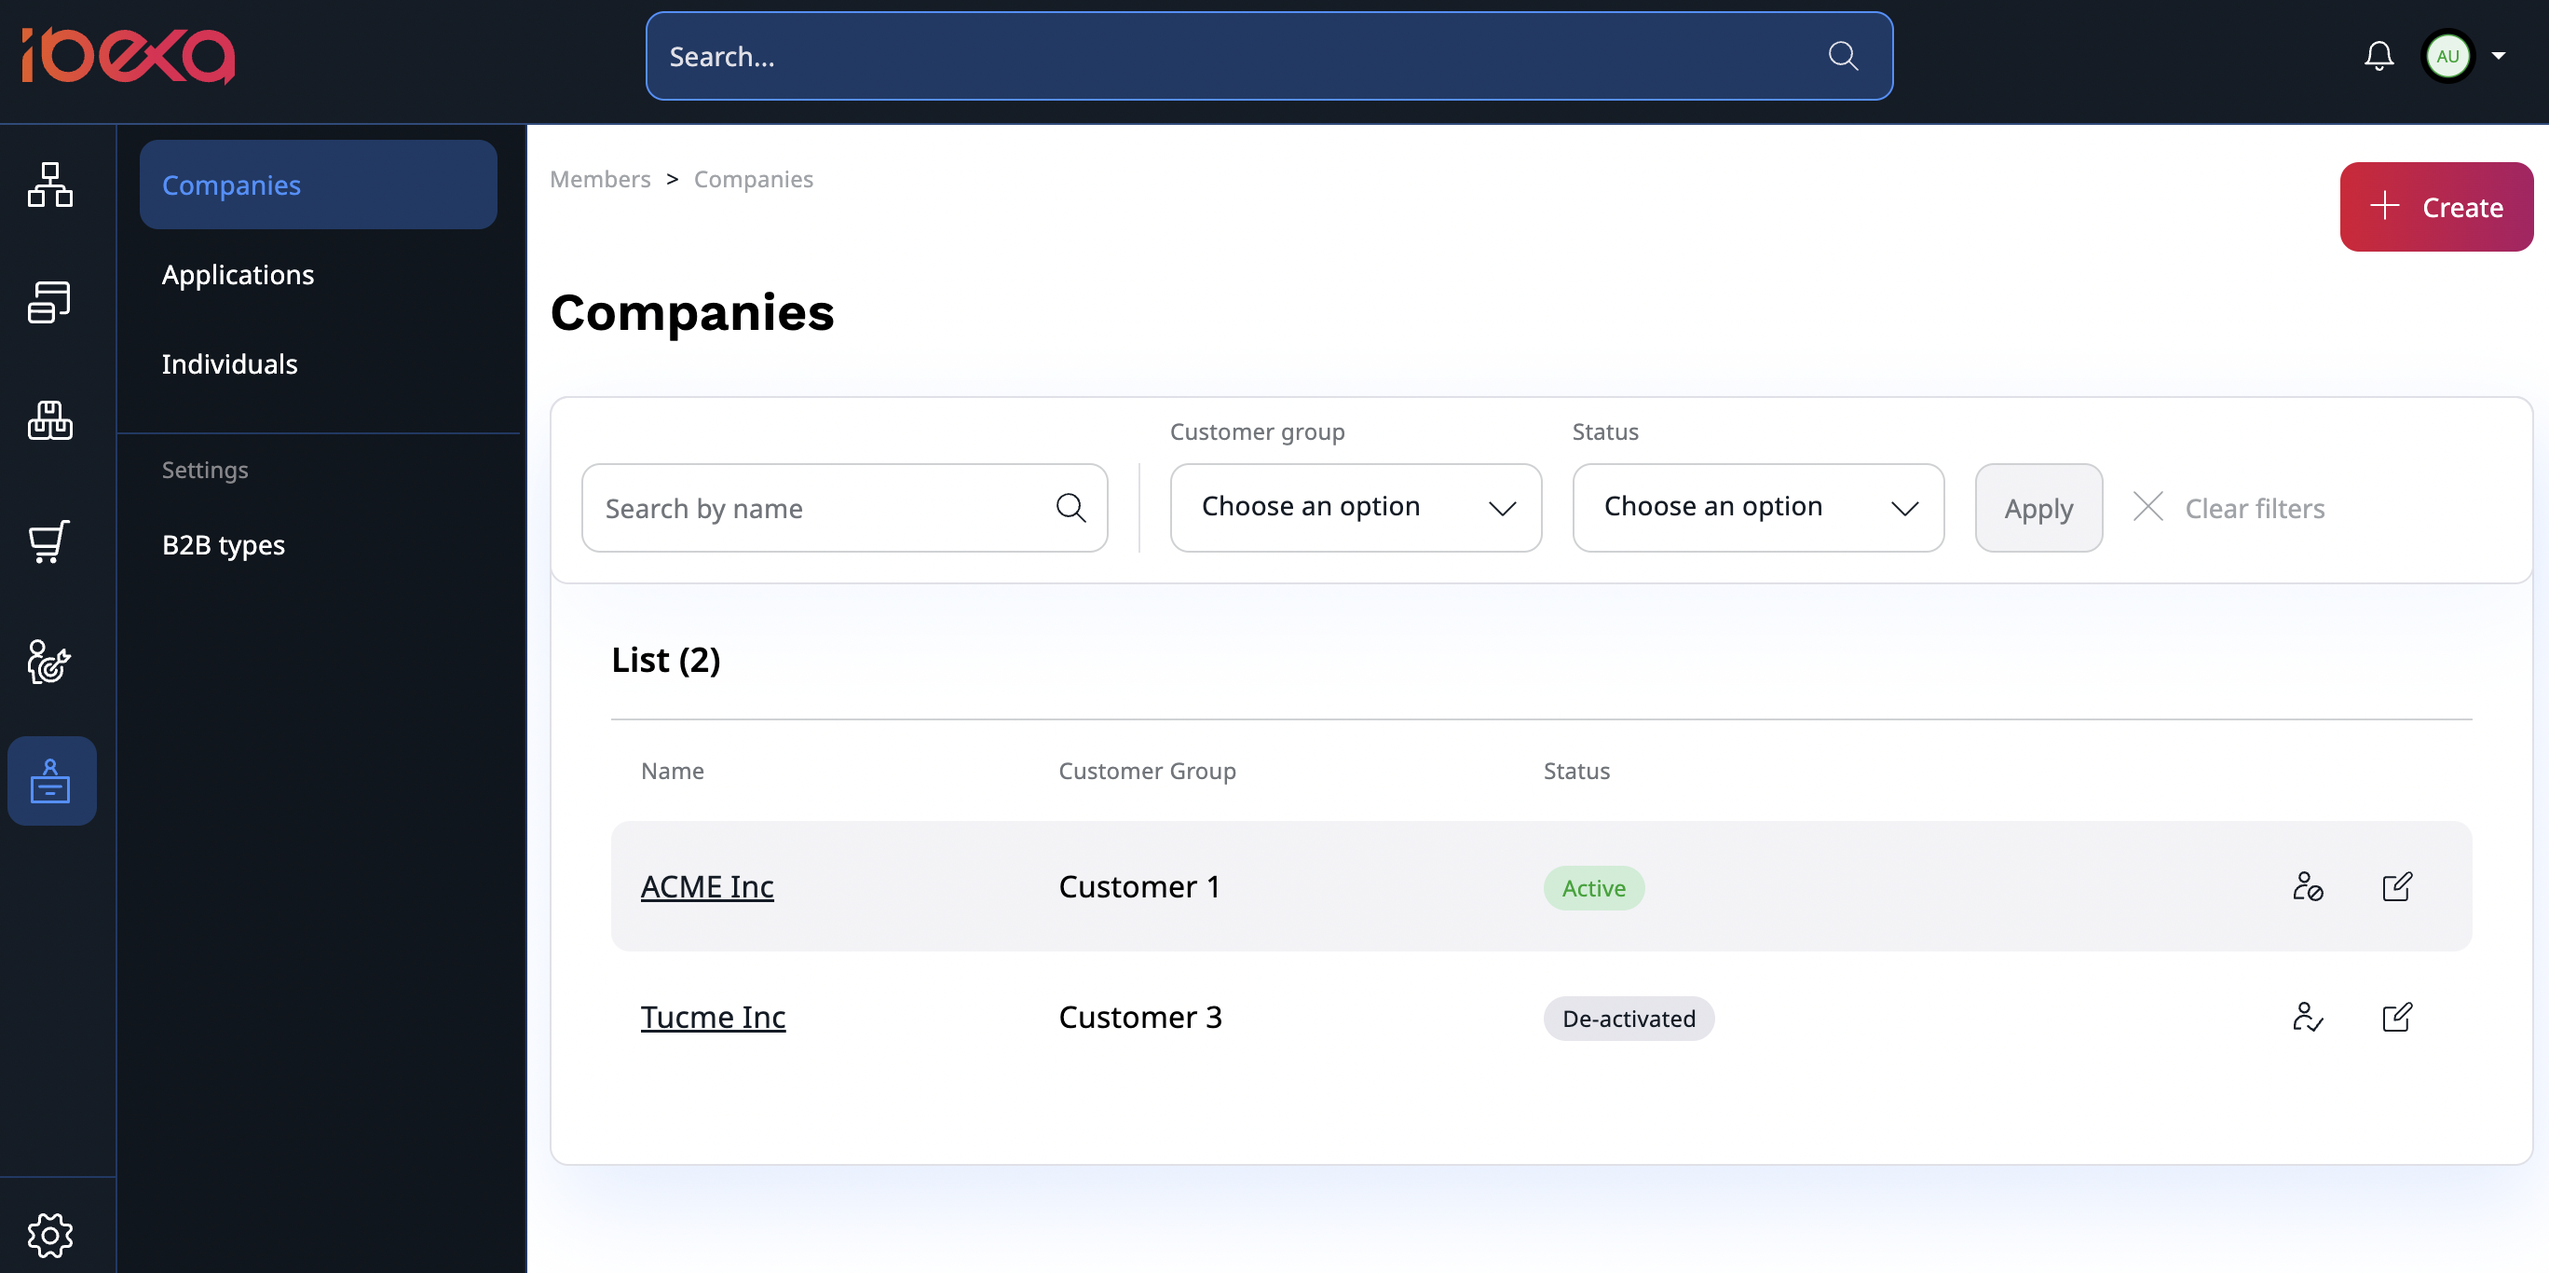
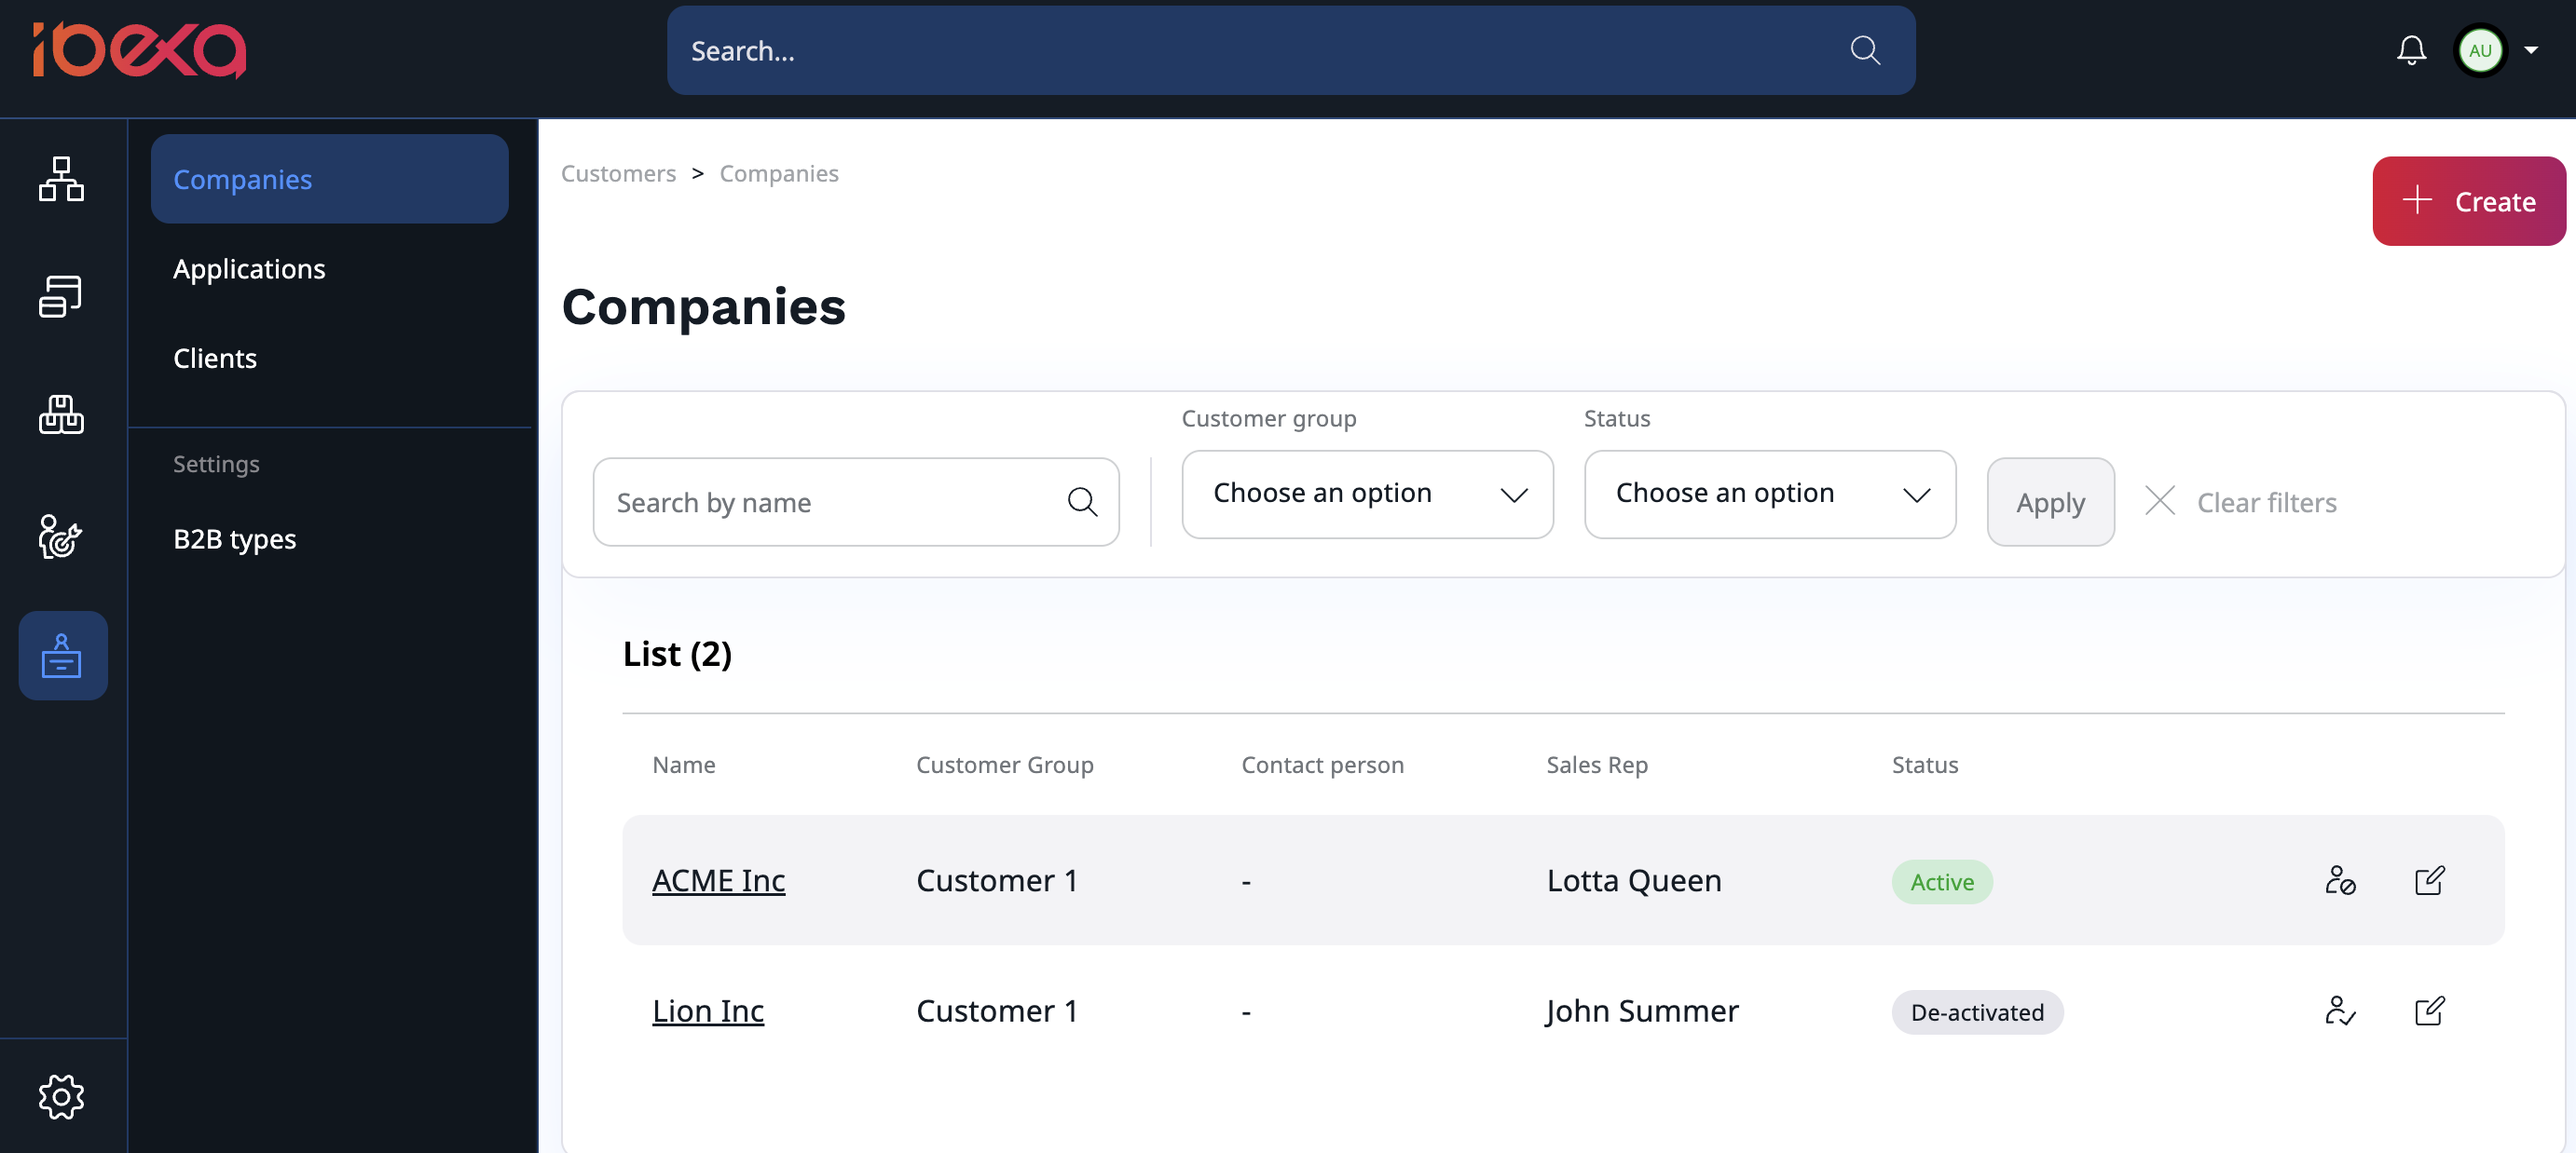
IBX-5132 Wrong breadcrumbs after menu labels update in Corporate Account (#186)

diff --git a/docs/shop_administration/company_self_registration.md b/docs/shop_administration/company_self_registration.md
@@ -22,14 +22,14 @@ They need to provide their basic information, contact information and billing ad
 ## Application approval
 
 The application then goes through an approval process in the Back Office.
-To see a list of pending applications, go to **Members** -> **Applications**.
+To see a list of pending applications, go to **Customers** -> **Applications**.
 There you can edit them or check their current status.
 
 ![List of applications](img/cp_applications_list.png)
 
 Each application can be either edited, approved, rejected or put on hold.
 Applications with status reject and on hold remain on the list for future reference.
-Accepted ones move to **Members** -> **Companies** section.
+Accepted ones move to **Customers** -> **Companies** section.
 
 ![Application](img/cp_application.png)
 
@@ -43,6 +43,6 @@ Follow the same procedure with a customer group, it can be set up in **Commerce*
 Finally, the invitation link is sent back to the applier to finish the registration process
 and give them access to the [Customer Portal](customer_portal.md).
 
-Application is moved to **Members** -> **Companies** section and the company is created with **Active** status.
+Application is moved to **Customers** -> **Companies** section and the company is created with **Active** status.
 From there, you can manage the company and resend an invitation link if needed.
 For more information on managing companies in the Back Office, see [Customer management documentation](manage_customers.md#manage-company). 

diff --git a/docs/shop_administration/manage_customers.md b/docs/shop_administration/manage_customers.md
@@ -10,7 +10,7 @@ customers and organizations' accounts in your system, including their shop activ
 
 ## Create new company
 
-To create a new company, go to **Members** -> **Companies** section.
+To create a new company, go to **Customers** -> **Companies** section.
 There you can view a list of companies you have access to,
 you can also edit them or create a new one by selecting **Create** button in the top right corner.
 
@@ -30,7 +30,7 @@ Optionally, you can add a website and other contact details.
 
 ## Manage company
 
-Companies can be managed from the Back Office in the **Members** -> **Companies** section.
+Companies can be managed from the Back Office in the **Customers** -> **Companies** section.
 Each company has its own profile where you can find:
 
 - summary with basic information and order history
@@ -64,7 +64,7 @@ You can also set up Policies for every user who has a business account by editin
 ## Invite members
 
 To invite other members to the organization,
-go to **Members** -> **Companies** -> Select your company -> **Invitations**.
+go to **Customers** -> **Companies** -> Select your company -> **Invitations**.
 
 ![Invite members from the Back Office](img/cp_invitations_back_office.png)
 

diff --git a/docs/shop_administration/customer_portal.md b/docs/shop_administration/customer_portal.md
@@ -12,6 +12,9 @@ invite and view members and check your order history.
 
 ![Customer Portal Dashboard](img/cp_dashboard_customer_portal.png)
 
+To access Customer Portal follow this link
+`<yourdomain>/corporate/login` and log in to your business account.
+
 In the dashboard, you will find a sales representative of your company and 
 a brief summary of your order history.
 For a detailed list of your order history, go to **Pending Order** and 
